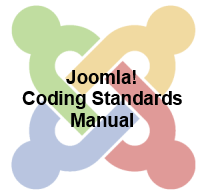
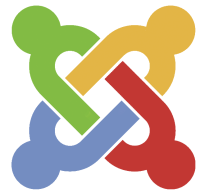
More changes, new graphic

diff --git a/index.html b/index.html
@@ -41,7 +41,7 @@
     <div id="main" class="container-fluid">
       <div class="row-fluid">
         <div class="span3">
-          <div class="manual-image" align="center">
+          <div class="manual-image">
           <img src="https://github.com/Hutchy68/coding-standards/blob/gh-pages/manual/en-US/coding-standards/joomla_coding_standards_manual.png?raw=true" alt="Joomla! Graphic">
           </div>	
           <div class="well sidebar-nav" id="doc-menu">

diff --git a/assets/css/manual.css b/assets/css/manual.css
@@ -14,3 +14,7 @@ th
 	border: 1px solid gray;
 	padding: 10px;
 }
+manual-image {
+	margin: .5em 0 2em 0;
+	text-align: center;
+}

diff --git a/manual/en-US/coding-standards/introduction.md b/manual/en-US/coding-standards/introduction.md
@@ -1,6 +1,6 @@
 ### Introduction
 
-Good coding standards are important in any development project, but it is particularly important when a large and diverse group of developers are contributing to a project. One of the things that sets good software apart from great software is not only the features or the actual function the software performs, but the quality of its source code. 
+Good coding standards are important in any software development project. These standards are even more important when a large, diverse and worldwide group of developers are contributing to a project. One of the things that sets good software apart from great software is not only the features or the actual function the software performs, but the quality of its source code. 
 
 In order to perform in the highly competitive Open Source and proprietary software industries, source code not only needs to be beautifully designed, it also needs to be beautiful and elegant to look at. The Joomla Coding Standards Manual is to help ensure our code is high quality, readable, and easily maintained. 
 
